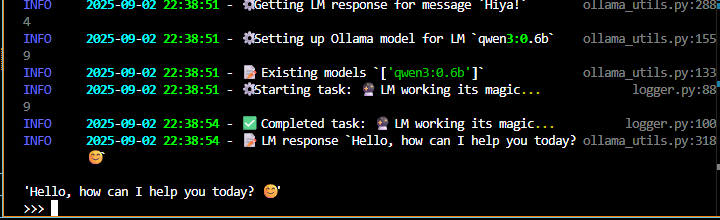
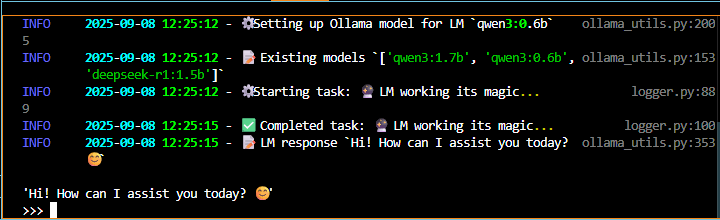
fix various items
Fix typos and links; organize md files for better reference; update gif for ollama tutorial

Changed region(s): [[0.0, 0.0, 1.0, 1.0], [0.1222, 0.5182, 0.3056, 0.7636]]

diff --git a/docs/tutorials/servers/ollama.md b/docs/tutorials/servers/ollama.md
@@ -3,6 +3,8 @@ title: Ollama Server
 template: pages.html
 ---
 
+<!-- TODO: Update gif -->
+
 <div class="icon-def-1" style="text-align: center; border: 0.1rem solid; width: 5%; float: right; padding: 0px; margin: 0px; font-size: 0.9rem;">
   <a onclick="toggleAnimations()" title="Toggle Animations" style="cursor: pointer;">
     <p style="padding: 0px; margin: 0px;"><i class="mdi mdi-sine-wave"></i></p>
@@ -313,7 +315,7 @@ Before we take a deep dive into the source code :material-diving-scuba:{.icon-de
 
 <h4 style="text-align: left;">tests/</h4>
 
-> This folder contains [unit][test-unit]{.blank} and [integration tests][test-integration]{.blank} to make sure the logic of the source code works as expected without calling the Ollama API :material-drama-masks:{ .icon-def-0 }, as well as when the API is available :material-server:{.icon-def-0}. I won't go over these files as they're not important for our results, though I did leave a lot of comments for anyone that's interested :material-comment-question-outline:{.icon-def-0} :material-comment-check-outline:{.icon-def-0}. Learning how to create testing suites has not only helped me better understand how my code works but also to start my code off on the right track so that I don't have as many surprise bugs popping up along the way :material-shield-bug-outline:{.icon-def-0}. You can check out the [best practices bonus info][code-best-practices] to see how to run the tests. 
+> This folder contains [unit][test-unit]{.blank} and [integration tests][test-integration]{.blank} to make sure the logic of the source code works as expected without calling the Ollama API :material-drama-masks:{ .icon-def-0 }, as well as when the API is available :material-server:{.icon-def-0}. I won't go over these files as they're not important for our results, though I did leave a lot of comments for anyone that's interested :material-comment-question-outline:{.icon-def-0} :material-comment-check-outline:{.icon-def-0}. Learning how to create testing suites has not only helped me better understand how my code works but also how to start my code off on the right track so that I don't have as many surprise bugs popping up along the way :material-shield-bug-outline:{.icon-def-0}. You can check out the [best practices bonus info][code-best-practices] to see how to run the tests. 
 
 ---
 
@@ -387,7 +389,7 @@ Above, I show the `ollama_utils.py` file in all its full glory as well as in a s
 
 ??? bonus-code "What about these best practices?"
  
-    Logging :material-notebook-edit-outline:{.icon-def-0}, error handling :material-alert-circle-outline:{.icon-def-0}, type checking :material-shape-plus:{.icon-def-0}, documenting :material-bookshelf:{.icon-def-0}, and using testing suites :material-test-tube:{.icon-def-0} are practices that I didn't fully appreciate while I was learning how to code through finding tutorials online and chatting with LMs, because these sources usually just demonstrate how to get the code working :material-power:{.icon-def-0}. But after I learned how to implement them into my code :material-head-heart-outline:{.icon-def-0}, it made sense why all the :simple-github:{.icon-def-0} repos I had been digging through had these practices (along with testing suites) in spades :material-cards-spade-outline:{.icon-def-0}. They're great for catching early problems, keeping your code working as expected, and for easily keeping yourself (and others) in the loop about how the code is working :material-sync:{.icon-def-0}. I highly suggest trying to implement some or all of these practices into your working code throughout the tutorials :material-monitor-shimmer:{.icon-def-0}. 
+    Logging :material-notebook-edit-outline:{.icon-def-0}, error handling :material-alert-circle-outline:{.icon-def-0}, type checking :material-shape-plus:{.icon-def-0}, documenting :material-bookshelf:{.icon-def-0}, and using testing suites :material-test-tube:{.icon-def-0} are practices that I didn't fully appreciate while I was learning how to code through finding tutorials online and chatting with LMs, because these sources usually just demonstrate how to get the code working :material-power:{.icon-def-0}. But after I learned how to implement them into my code :material-head-heart-outline:{.icon-def-0}, it made sense why all the :simple-github:{.icon-def-0} repos I had been digging through had these practices in spades :material-cards-spade-outline:{.icon-def-0}. They're great for catching early problems, keeping your code working as expected, and for easily keeping yourself (and others) in the loop about how the code is working :material-sync:{.icon-def-0}. I highly suggest trying to implement some or all of these practices into your working code throughout the tutorials :material-monitor-shimmer:{.icon-def-0}. 
 
     I use [mypy][mypy]{.blank} for type checking. If you want to do type checking for the `ollama_utils.py` file:
 
@@ -398,7 +400,7 @@ Above, I show the `ollama_utils.py` file in all its full glory as well as in a s
     I use [pytest][pytest]{.blank}, [pytest-order][pytest-order]{.blank}, and [unittest][unittest]{.blank} for creating and running testing suites. If you want to run the testing suite (the code in the `./tests/` folder): 
       
     1.  Activate the Python environment ([step 3][step-activate] of the :material-flag-checkered:{.icon-def-0}`Getting Started` section)
-    1.  Install [pytest][pytest]{.blank} and [pytest-order][pytest-order]{.blank} and [Requests][requests]{.blank}: `pip install pytest pytest-order requests`
+    1.  Install [pytest][pytest]{.blank}, [pytest-order][pytest-order]{.blank}, and [Requests][requests]{.blank}: `pip install pytest pytest-order requests`
     1.  Run the tests with: `pytest tests/ -v`. The `-v` flag is optional and, again, just gives more information while running.
 
 Notice that all but one of the methods in the class have `_` at the beginning of the name. All of the methods with `_` are *internal* methods :material-tag-hidden:{.icon-def-0}, meaning they were created to help the other methods in the class, but they're not suggested to be used outside of the class. 
@@ -551,7 +553,7 @@ This works great if the LM *always* outputs the thinking phase fully enclosed in
 
 We've already seen that responses with a fully enclosed thinking phase are taken care of with [lines 9 and 19][remove-think-tags], however we also want to make sure no tags remain by replacing any instances of `<think>` or `</think>` with empty strings on [line 21][remove-think-tags] :material-checkbox-marked-outline:{.icon-def-0}. 
 
-To take care of the rest of the instances, we check if the `think_tag_pattern` isn't found on [line 11][remove-think-tags] (i.e. one of the tags were dropped or added accidentally or the message has no thinking tags at all). On [line 14][remove-think-tags], we then follow the same procedure to clean the text as we did on [line 21][remove-think-tags] :material-creation-outline:{.icon-def-0}. 
+To take care of the rest, on [line 11][remove-think-tags] we check if the `think_tag_pattern` isn't found (i.e. one of the tags were dropped or added accidentally or the message has no thinking tags at all). On [line 14][remove-think-tags], we then follow the same procedure to clean the text as we did on [line 21][remove-think-tags] :material-creation-outline:{.icon-def-0}. 
 
 This will sometimes result in some or all of the LM *thinking* phase being output with the final response, but I'd rather have too much than too little context :material-checkbox-marked-outline:{ .icon-def-0 }. Alternatively, I bet there's an approach somewhere out there that ensures only the final response is output :material-help-rhombus-outline:{.icon-def-0}.
 
@@ -587,9 +589,7 @@ Now, how exactly do we create the Ollama server that we'll be pointing to in ord
         --8<--
         ```
 
-The :simple-docker:{.icon-def-0} Docker compose file is a special file that tells [Docker][docker]{target="_blank"} how to create the containers that you want. In our case we want one container, an :simple-ollama:{.icon-def-0} Ollama server, and there are two different ways to create it, for :material-expansion-card-variant:{.icon-def-0} GPU or :material-cpu-64-bit:{.icon-def-0} CPU support [^1]. 
-
-[^1]: Usually, we would only have one :simple-docker:{.icon-def-0} Docker compose file that can handle different user preferences by using something like environment variables (we'll see how to do this when we get into the :simple-searxng:{.icon-def-0} [SearXNG server][searxng-tutorial] and :material-chat-processing-outline:{.icon-def-0} [chatbot][chatbot] tutorials). However, in our case :material-expansion-card-variant:{.icon-def-0} GPU support is built by adding two lines (see [lines 10-11][gpu-piece] of the GPU snippet) while :material-cpu-64-bit:{.icon-def-0} CPU support is built by omitting these two lines. I couldn't figure out a good way to dynamically add or omit these lines when building :material-head-question-outline:{.icon-def-0}, so I just resorted to using two different files.
+The :simple-docker:{.icon-def-0} Docker compose file is a special file that tells [Docker][docker]{target="_blank"} how to create the containers that you want. In our case we want one container, an :simple-ollama:{.icon-def-0} Ollama server, and there are two different ways to create it, for :material-expansion-card-variant:{.icon-def-0} GPU or :material-cpu-64-bit:{.icon-def-0} CPU support [^docker-files]. 
 
 Now, let's take a closer look at the files :material-arrow-down-bold-outline:{.icon-def-0}.
 
@@ -615,9 +615,7 @@ These are typical :simple-docker:{.icon-def-0} Docker compose files starting wit
 
 We want to use the latest Docker image [found here][ollama-docker-image]{target="_blank"}, and we want to interact with the server by using our [localhost][localhost]{target="_blank"} network to send requests to port `11434` :material-send-check-outline:{.icon-def-0} (the designated port where the :simple-ollama:{.icon-def-0} Ollama API can be reached). This is [where we point][client-chat] when we initialize the `OllamaClient` class of the `ollama_utils.py` file and the URL that we pass to the [Ollama Client][ollama-client]{.blank} using the `Client` object :material-checkbox-marked-outline:{.icon-def-0}.
 
-Finally, in this demo we're going to store all of the Ollama data (like the models that we pull) in a local folder called :material-folder-outline:{.icon-def-0} `./ollama_data/`. However, in later tutorials we'll use :simple-docker:{.icon-def-0} Docker volumes for all our data [^2].
-
-[^2]: You can see how to setup using a Docker volume for this project in the [full Docker compose files][docker-compose-full].
+Finally, in this demo we're going to store all of the Ollama data (like the models that we pull) in a local folder called :material-folder-outline:{.icon-def-0} `./ollama_data/`. However, in later tutorials we'll use :simple-docker:{.icon-def-0} Docker volumes for all our data [^docker-volumes].
 
 By switching between [the two code snippets][gpu-piece], you can see that the :material-expansion-card-variant:{.icon-def-0} GPU setup is exactly the same as the :material-cpu-64-bit:{.icon-def-0} CPU setup, only with two extra lines that tell Ollama to use all of our available GPUs :material-message-text-fast-outline:{.icon-def-0}.
 
@@ -644,6 +642,13 @@ This tutorial is a work in progress. If you'd like to suggest or add improvement
 <hr class="icon-def-1", style="border: 0.01rem solid; width: 30%; margin: 0 auto;">
 
 
+<!-- FOOTNOTES -->
+[^docker-files]: Usually, we would only have one :simple-docker:{.icon-def-0} Docker compose file that can handle different user preferences by using something like environment variables (we'll see how to do this when we get into the :simple-searxng:{.icon-def-0} [SearXNG server][searxng-tutorial] and :material-chat-processing-outline:{.icon-def-0} [chatbot][chatbot] tutorials). However, in our case :material-expansion-card-variant:{.icon-def-0} GPU support is built by adding two lines (see [lines 10-11][gpu-piece] of the GPU snippet) while :material-cpu-64-bit:{.icon-def-0} CPU support is built by omitting these two lines. I couldn't figure out a good way to dynamically add or omit these lines when building :material-head-question-outline:{.icon-def-0}, so I just resorted to using two different files.
+
+[^docker-volumes]: You can see how to setup using a Docker volume for this project in the [full Docker compose files][docker-compose-full].
+
+
+<!-- LINKS -->
 [agents]: ../agents/index.md
 [animakit]: https://github.com/anima-kit
 [chatbot]: ../agents/chatbot.md

diff --git a/docs/tutorials/servers/index.md b/docs/tutorials/servers/index.md
@@ -3,6 +3,8 @@ title: Servers
 template: pages.html
 ---
 
+<!-- TODO: footnotes appear out of order for some reason (vectorstore numbered as 2 and context note numbered as 1) -->
+
 <div class="icon-def-1" style="text-align: center; border: 0.1rem solid; width: 5%; float: right; padding: 0px; margin: 0px; font-size: 0.9rem;">
   <a onclick="toggleAnimations()" title="Toggle Animations" style="cursor: pointer;">
     <p style="padding: 0px; margin: 0px;"><i class="mdi mdi-sine-wave"></i></p>
@@ -38,7 +40,7 @@ template: pages.html
 
     ---
 
-    Create vectorstores [^1] for all of your documents that can be searched by your agents.
+    Create vectorstores [^vectorstore] for all of your documents that can be searched by your agents.
 
     [:material-arrow-right-thin: Get started with Milvus][milvus-tutorial]
 
@@ -51,8 +53,6 @@ template: pages.html
     [:material-arrow-right-thin: Get started with multi-server setups][multi-server]
 
 </div>
-
-[^1]: A [vectorstore][vectorstore]{.blank} is a special type of database that can be used to store :material-bookshelf:{ .icon-def-0 } and search :material-magnify:{ .icon-def-0 } your data. It stores your data with additional representations called `embeddings` and searches your data based on special variables called `indices`. The type of indices used for the vectorstore and the way your data is embedded result in different types of searches that can be done :material-shape-plus:{ .icon-def-0 }. For example, think of the difference between searching data for a specific keyword :material-key-chain:{ .icon-def-0 } versus searching data based on an abstract embedding that maps nuanced relationships between data :material-molecule:{ .icon-def-0 }. In the first case, we're only going to get the results we expect, whatever contains the specific keyword. In the second case, we can get results based on relationships between the data that aren't immediately apparent. 
 
 <hr class="icon-def-1", style="border: 0.1rem solid; width: 90%; margin: 0 auto;"> 
 
@@ -74,9 +74,7 @@ To get them to work their magic :material-crystal-ball:{ .icon-def-0 }, LMs are 
 
 Also, some of the information that we'll want our agents to analyze will be esoteric :material-ghost-outline:{ .icon-def-0 }. It was possibly not available or only in very small doses when the LM was fed its data. This means the LM won't have many connections between our data and its knowledge store :material-head-dots-horizontal-outline:{ .icon-def-0 }, so the rules it built up won't apply well. Its responses will be uninformed and off base or complete gibberish :material-robot-confused-outline:{ .icon-def-0 }. 
 
-As a general rule, the more context our agents have the better their responses will be [^2]. By giving our agents the proper tools :material-hammer-wrench:{ .icon-def-0 }, we can give them the ability to use other stores of information that are relevant to our projects :material-bookshelf:{ .icon-def-0 }. This way our agents will `generate more informed responses` and `make more informed decisions` even when discussing matters unfamiliar to the LM :material-robot-love-outline:{ .icon-def-0 }.
-
-[^2]: I've found that this only works up to a point. Too much context at once can cause confusion :material-robot-confused-outline:{ .icon-def-0 }. To solve this, summarizing the context or breaking the agent task up into smaller tasks to give it less context at a time works pretty well.
+As a general rule, the more context our agents have the better their responses will be [^context]. By giving our agents the proper tools :material-hammer-wrench:{ .icon-def-0 }, we can give them the ability to use other stores of information that are relevant to our projects :material-bookshelf:{ .icon-def-0 }. This way our agents will `generate more informed responses` and `make more informed decisions` even when discussing matters unfamiliar to the LM :material-robot-love-outline:{ .icon-def-0 }.
 
 Ok, giving our agents tools does sound pretty useful :material-checkbox-marked-outline:{ .icon-def-0 }.
 
@@ -114,6 +112,13 @@ For the agent brain, we're going to use LMs served with :simple-ollama:{ .icon-d
 Check out any of tutorials above to get started :material-arrow-up-bold-outline:{ .icon-def-0 }! To see how to pass all these servers over to our agents in order to create assistants that can grab us up to date information or information relevant to our own personal documents, check out the :material-robot-outline:{ .icon-def-0 } [agents tutorials][agents].
 
 
+<!-- FOOTNOTES -->
+[^vectorstore]: A [vectorstore][vectorstore]{.blank} is a special type of database that can be used to store :material-bookshelf:{ .icon-def-0 } and search :material-magnify:{ .icon-def-0 } your data. It stores your data with additional representations called `embeddings` and searches your data based on special variables called `indices`. The type of indices used for the vectorstore and the way your data is embedded result in different types of searches that can be done :material-shape-plus:{ .icon-def-0 }. For example, think of the difference between searching data for a specific keyword :material-key-chain:{ .icon-def-0 } versus searching data based on an abstract embedding that maps nuanced relationships between data :material-molecule:{ .icon-def-0 }. In the first case, we're only going to get the results we expect, whatever contains the specific keyword. In the second case, we can get results based on relationships between the data that aren't immediately apparent. 
+
+[^context]: I've found that this only works up to a point. Too much context at once can cause confusion :material-robot-confused-outline:{ .icon-def-0 }. To solve this, summarizing the context or breaking the agent task up into smaller tasks to give it less context at a time works pretty well.
+
+
+<!-- LINKS -->
 [agents]: ../agents/index.md
 [daemon]: https://en.wikipedia.org/wiki/Daemon_(computing)
 [docker]: https://www.docker.com/

diff --git a/docs/tutorials/index.md b/docs/tutorials/index.md
@@ -79,9 +79,7 @@ I like to host :material-server:{ .icon-def-0 } [local servers][servers] for the
 
 For the LMs and tools to pass to the agent, I chose solutions that were able to be :material-laptop:{ .icon-def-0 } `locally served` and were easy to setup and use. I also wanted to learn how to build tools that I would want to give to multiple types of agents :material-shape-plus:{ .icon-def-0 }. I found that the most useful tools for all my agent builds were those that enhanced the knowledge of the LM through either a `web search` or a `personal document search` :material-magnify:{ .icon-def-0 }. 
 
-In the end, my favorite picks for the LM and tool servers are an :simple-ollama:{ .icon-def-0 } [Ollama][ollama]{.blank} server for the [LMs][ollama-tutorial], a :simple-searxng:{ .icon-def-0 } [SearXNG][searxng]{.blank} server for a [metasearch engine tool][searxng-tutorial] [^1], and a :simple-milvus:{ .icon-def-0 } [Milvus][milvus]{.blank} server for a [data retrieval tool][milvus-tutorial] that can be used on my personal documents. We'll learn how to create and run each of these servers in turn :material-robot-excited-outline:{.icon-def-0}.
-
-[^1]: A metasearch engine takes a query, gets various web search results, performs some actions on the results like ranking them in order of relevancy :material-podium-silver:{ .icon-def-0 }, then outputs some information based on these results :material-newspaper-variant-multiple-outline:{ .icon-def-0 }. The :simple-searxng:{.icon-def-0} SearXNG server that we'll create takes our queries and searches the web through various engines, then outputs some final results. How these steps are performed will depend on how we setup our server in :simple-docker:{.icon-def-0} Docker. 
+In the end, my favorite picks for the LM and tool servers are an :simple-ollama:{ .icon-def-0 } [Ollama][ollama]{.blank} server for the [LMs][ollama-tutorial], a :simple-searxng:{ .icon-def-0 } [SearXNG][searxng]{.blank} server for a [metasearch engine tool][searxng-tutorial] [^metasearch], and a :simple-milvus:{ .icon-def-0 } [Milvus][milvus]{.blank} server for a [data retrieval tool][milvus-tutorial] that can be used on my personal documents. We'll learn how to create and run each of these servers in turn :material-robot-excited-outline:{.icon-def-0}.
 
 <hr class="icon-def-1", style="border: 0.05rem solid; width: 60%; margin: 0 auto;"> 
 
@@ -99,7 +97,7 @@ Check out any of the tutorials above to get started :material-arrow-up-bold-outl
 
 ## :material-checkbox-multiple-marked-outline:{ .icon-def-0 } What will we need?
 
-For every tutorial, we'll be using :simple-python:{ .icon-def-0 } [Python][python]{.blank} and :simple-docker:{ .icon-def-0 } [Docker][docker]{.blank}. You can just simply install these tools and use them right away. To my knowledge, there shouldn't be any special setup that needs to be done for these :material-flash:{ .icon-def-0 }. 
+For most tutorials, we'll be using :simple-python:{ .icon-def-0 } [Python][python]{.blank} and :simple-docker:{ .icon-def-0 } [Docker][docker]{.blank}. You can just simply install these tools and use them right away. To my knowledge, there shouldn't be any special setup that needs to be done for these :material-flash:{ .icon-def-0 }. 
 
 You may also want something to view, edit, and manage code :material-file-code-outline:{ .icon-def-0 } as well as to execute commands in a :material-console:{ .icon-def-0 } CL. This isn't *strictly necessary*, but will be enormously helpful in following along with the tutorials and seeing for yourself what the code does :material-puzzle-check-outline:{ .icon-def-0 }. In my opinion, the GOAT is :simple-vscodium:{.icon-def-0} [VSCodium][vscodium]{.blank}. All the code management and execution in these tutorials can be performed with this software, no problem :material-creation-outline:{ .icon-def-0 }. 
 
@@ -114,6 +112,11 @@ All other third-party libraries, etc., that are needed to follow along will be e
 I made these lessons so that they could be used by a wide variety of people; whether you want to just quickly take the code and use it without having to understand what it does :material-invoice-text-fast-outline:{ .icon-def-0 }, or you want to dive into the code and try to understand how it all works :material-wizard-hat:{ .icon-def-0 }, or you want something in between :material-head-cog-outline:{ .icon-def-0 }. As long as you have a desire to build :material-robot-excited-outline:{ .icon-def-0 } AI agents or the :material-server:{ .icon-def-0 } servers necessary to power these agents, or you just want to learn about AI :material-school-outline:{ .icon-def-0 }, these tutorials were made for you! :material-hand-heart:{ .icon-def-0 }  
 
 
+<!-- FOOTNOTES -->
+[^metasearch]: A metasearch engine takes a query, gets various web search results, performs some actions on the results like ranking them in order of relevancy :material-podium-silver:{ .icon-def-0 }, then outputs some information based on these results :material-newspaper-variant-multiple-outline:{ .icon-def-0 }. The :simple-searxng:{.icon-def-0} SearXNG server that we'll create takes our queries and searches the web through various engines, then outputs some final results. How these steps are performed will depend on how we setup our server in :simple-docker:{.icon-def-0} Docker. 
+
+
+<!-- LINKS -->
 [agents]: agents/index.md
 [animakit]: https://github.com/anima-kit
 [docker]: https://www.docker.com/

diff --git a/docs/about.md b/docs/about.md
@@ -40,9 +40,7 @@ I learned how to [fine-tune][fine-tune]{.blank} text-to-image models, how to cre
 
 I was sure of one thing, though. I *really* wanted a GPU with lots of [VRAM][vram]{.blank} :material-head-heart-outline:{ .icon-def-0 }.
 
-Soon after, I started to play around with [text-generation models][models-text-gen]{.blank} (i.e. the designation for most LMs [^1]) and I began to notice the existence of AI agent frameworks that utilized these models to power agents, such as [ChatDev][chatdev]{.blank} and [AutoGen][autogen]{.blank}. At the time, I could do some of the quickstart tutorials for these repos :material-checkbox-marked-outline:{ .icon-def-0 }, but I couldn't get my agents to do anything very useful for me :material-robot-confused-outline:{ .icon-def-0 }. It seemed they were either still in the early stages or I didn't understand how to use them. Either way, I felt something immense was on the precipice :material-volcano-outline:{ .icon-def-0 } and I wanted to join in :material-crowd:{ .icon-def-0 } and learn more :material-robot-excited-outline:{ .icon-def-0 }.
-
-[^1]: Nowadays, LMs are becoming increasingly [multi-modal][multi-modal]{.blank} and aren't prohibited to only generating text, or even taking text as an input for that matter :material-multimedia:{ .icon-def-0 }. These [any-to-any][models-any-to-any]{.blank} models can take in other forms of information and generate through other mediums like audio :material-music-note:{ .icon-def-0 } and images :material-image:{ .icon-def-0 }. At some point, I want to learn how to use these models for agentic purposes, and I'll most likely feel compelled to create tutorials in order to distill my learning :material-wizard-hat:{ .icon-def-0 } :material-flask-round-bottom:{ .icon-def-0 }.
+Soon after, I started to play around with [text-generation models][models-text-gen]{.blank} (i.e. the designation for most LMs [^multi-modal]) and I began to notice the existence of AI agent frameworks that utilized these models to power agents, such as [ChatDev][chatdev]{.blank} and [AutoGen][autogen]{.blank}. At the time, I could do some of the quickstart tutorials for these repos :material-checkbox-marked-outline:{ .icon-def-0 }, but I couldn't get my agents to do anything very useful for me :material-robot-confused-outline:{ .icon-def-0 }. It seemed they were either still in the early stages or I didn't understand how to use them. Either way, I felt something immense was on the precipice :material-volcano-outline:{ .icon-def-0 } and I wanted to join in :material-crowd:{ .icon-def-0 } and learn more :material-robot-excited-outline:{ .icon-def-0 }.
 
 !!! memory-bubble "Memory"
     *Scratch that. Life's throwing you something that requires your utmost presence and emotional stability. Better find your lodestone and better find it quick.*
@@ -96,6 +94,10 @@ So, if you want [code to build specialized AI agents][animakit] :material-file-c
 <hr class="icon-def-1" style="border: 0.01rem solid; width: 30%; margin: 0 auto;">
 
 
+<!-- FOOTNOTES -->
+[^multi-modal]: Nowadays, LMs are becoming increasingly [multi-modal][multi-modal]{.blank} and aren't prohibited to only generating text, or even taking text as an input for that matter :material-multimedia:{ .icon-def-0 }. These [any-to-any][models-any-to-any]{.blank} models can take in other forms of information and generate through other mediums like audio :material-music-note:{ .icon-def-0 } and images :material-image:{ .icon-def-0 }. At some point, I want to learn how to use these models for agentic purposes, and I'll most likely feel compelled to create tutorials in order to distill my learning :material-wizard-hat:{ .icon-def-0 } :material-flask-round-bottom:{ .icon-def-0 }.
+
+<!-- LINKS -->
 [a2c]: https://arxiv.org/pdf/1602.01783
 [agents]: tutorials/agents/index.md
 [animakit]: https://github.com/anima-kit

diff --git a/README.md b/README.md
@@ -70,14 +70,15 @@ This documentation site is a work in progress. If you'd like to suggest or add i
 This site is [licensed under MIT][license]. However, some of the third-party libraries are licensed differently, [check out the notice][notice] for more details.
 
 
-[agent-memory]: http://github.com/anima-kit.github.io/tutorials/agents/agent-memory/
-[agents]: http://github.com/anima-kit.github.io/tutorials/agents/
+<!-- LINKS -->
+[agent-memory]: http://anima-kit.github.io/tutorials/agents/agent-memory/
+[agents]: http://anima-kit.github.io/tutorials/agents/
 [animakit]: https://anima-kit.github.io/
-[chatbot]: http://github.com/anima-kit.github.io/tutorials/agents/chatbot/
-[code-agent]: http://github.com/anima-kit.github.io/tutorials/agents/code-agent
+[chatbot]: http://anima-kit.github.io/tutorials/agents/chatbot/
+[code-agent]: http://anima-kit.github.io/tutorials/agents/code-agent
 [contributing]: CONTRIBUTING.md
 [discussions]: https://github.com/anima-kit/anima-kit.github.io/discussions
-[doc-agent]: http://github.com/anima-kit.github.io/tutorials/agents/doc-agent/
+[doc-agent]: http://anima-kit.github.io/tutorials/agents/doc-agent/
 [docker]: https://www.docker.com/
 [gradio]: https://www.gradio.app/
 [langchain]: https://www.langchain.com/
@@ -85,18 +86,18 @@ This site is [licensed under MIT][license]. However, some of the third-party lib
 [license]: LICENSE
 [material]: https://squidfunk.github.io/mkdocs-material/
 [milvus]: https://milvus.io/
-[milvus-tutorial]: http://github.com/anima-kit.github.io/tutorials/servers/milvus/ 
-[multi-server]: http://github.com/anima-kit.github.io/tutorials/servers/multi-server/
+[milvus-tutorial]: http://anima-kit.github.io/tutorials/servers/milvus/ 
+[multi-server]: http://anima-kit.github.io/tutorials/servers/multi-server/
 [notice]: NOTICE.md
-[odds-ends]: http://github.com/anima-kit.github.io/tutorials/misc/
+[odds-ends]: http://anima-kit.github.io/tutorials/misc/
 [ollama]: https://ollama.com/
 [ollama-python]: https://github.com/ollama/ollama-python
-[ollama-tutorial]: http://github.com/anima-kit.github.io/tutorials/servers/ollama/
+[ollama-tutorial]: https://anima-kit.github.io/tutorials/servers/ollama/
 [pymilvus]: https://github.com/milvus-io/pymilvus
 [python]: https://www.python.org/
-[rag]: http://github.com/anima-kit.github.io/tutorials/rag/
+[rag]: http://anima-kit.github.io/tutorials/rag/
 [searxng]: https://github.com/searxng/searxng
 [searxng-docker]: https://github.com/searxng/searxng-docker
-[searxng-tutorial]: http://github.com/anima-kit.github.io/tutorials/servers/searxng/
+[searxng-tutorial]: http://anima-kit.github.io/tutorials/servers/searxng/
 [servers]: https://anima-kit.github.io/tutorials/servers
 [tutorials]: https://anima-kit.github.io/tutorials

diff --git a/docs/tutorials/agents/index.md b/docs/tutorials/agents/index.md
@@ -103,6 +103,7 @@ After finishing these tutorials, we'll know how to create whatever specialized a
 Check out any of the tutorials above to get started :material-arrow-up-bold-outline:{ .icon-def-0 }, or get a refresher on how to create all the necessary servers to power our agents in the :material-server:{ .icon-def-0 } [servers tutorials][servers]. If you want to learn techniques for improving the information retrieval of your agents, check out the :material-bookshelf:{ .icon-def-0 } [RAG tutorials][rag]. 
 
 
+<!-- LINKS -->
 [agent-memory]: agent-memory.md
 [animakit]: https://github.com/anima-kit
 [chatbot]: chatbot.md

diff --git a/docs/CONTRIBUTING.md b/docs/CONTRIBUTING.md
@@ -86,6 +86,7 @@ I also ask all contributors to follow the :material-robot-happy-outline:{.icon-d
 Thanks for contributing and making this site better for everyone! :material-hand-heart:{.icon-def-0}
 
 
+<!-- LINKS -->
 [conduct-code]: CODE_OF_CONDUCT.md
 [discussions]: https://github.com/anima-kit/anima-kit.github.io/discussions
-[security]: https://github.com/anima-kit/anima-kit.github.io/blob/main/docs/SECURITY.md
+[security]: https://github.com/anima-kit/anima-kit.github.io/blob/main/SECURITY.md

diff --git a/CONTRIBUTING.md b/CONTRIBUTING.md
@@ -52,4 +52,4 @@ Thanks for contributing and making this site better for everyone!
 
 [conduct-code]: CODE_OF_CONDUCT.md
 [discussions]: https://github.com/anima-kit/anima-kit.github.io/discussions
-[security]: https://github.com/anima-kit/anima-kit.github.io/blob/main/docs/SECURITY.md
+[security]: https://github.com/anima-kit/anima-kit.github.io/blob/main/SECURITY.md
